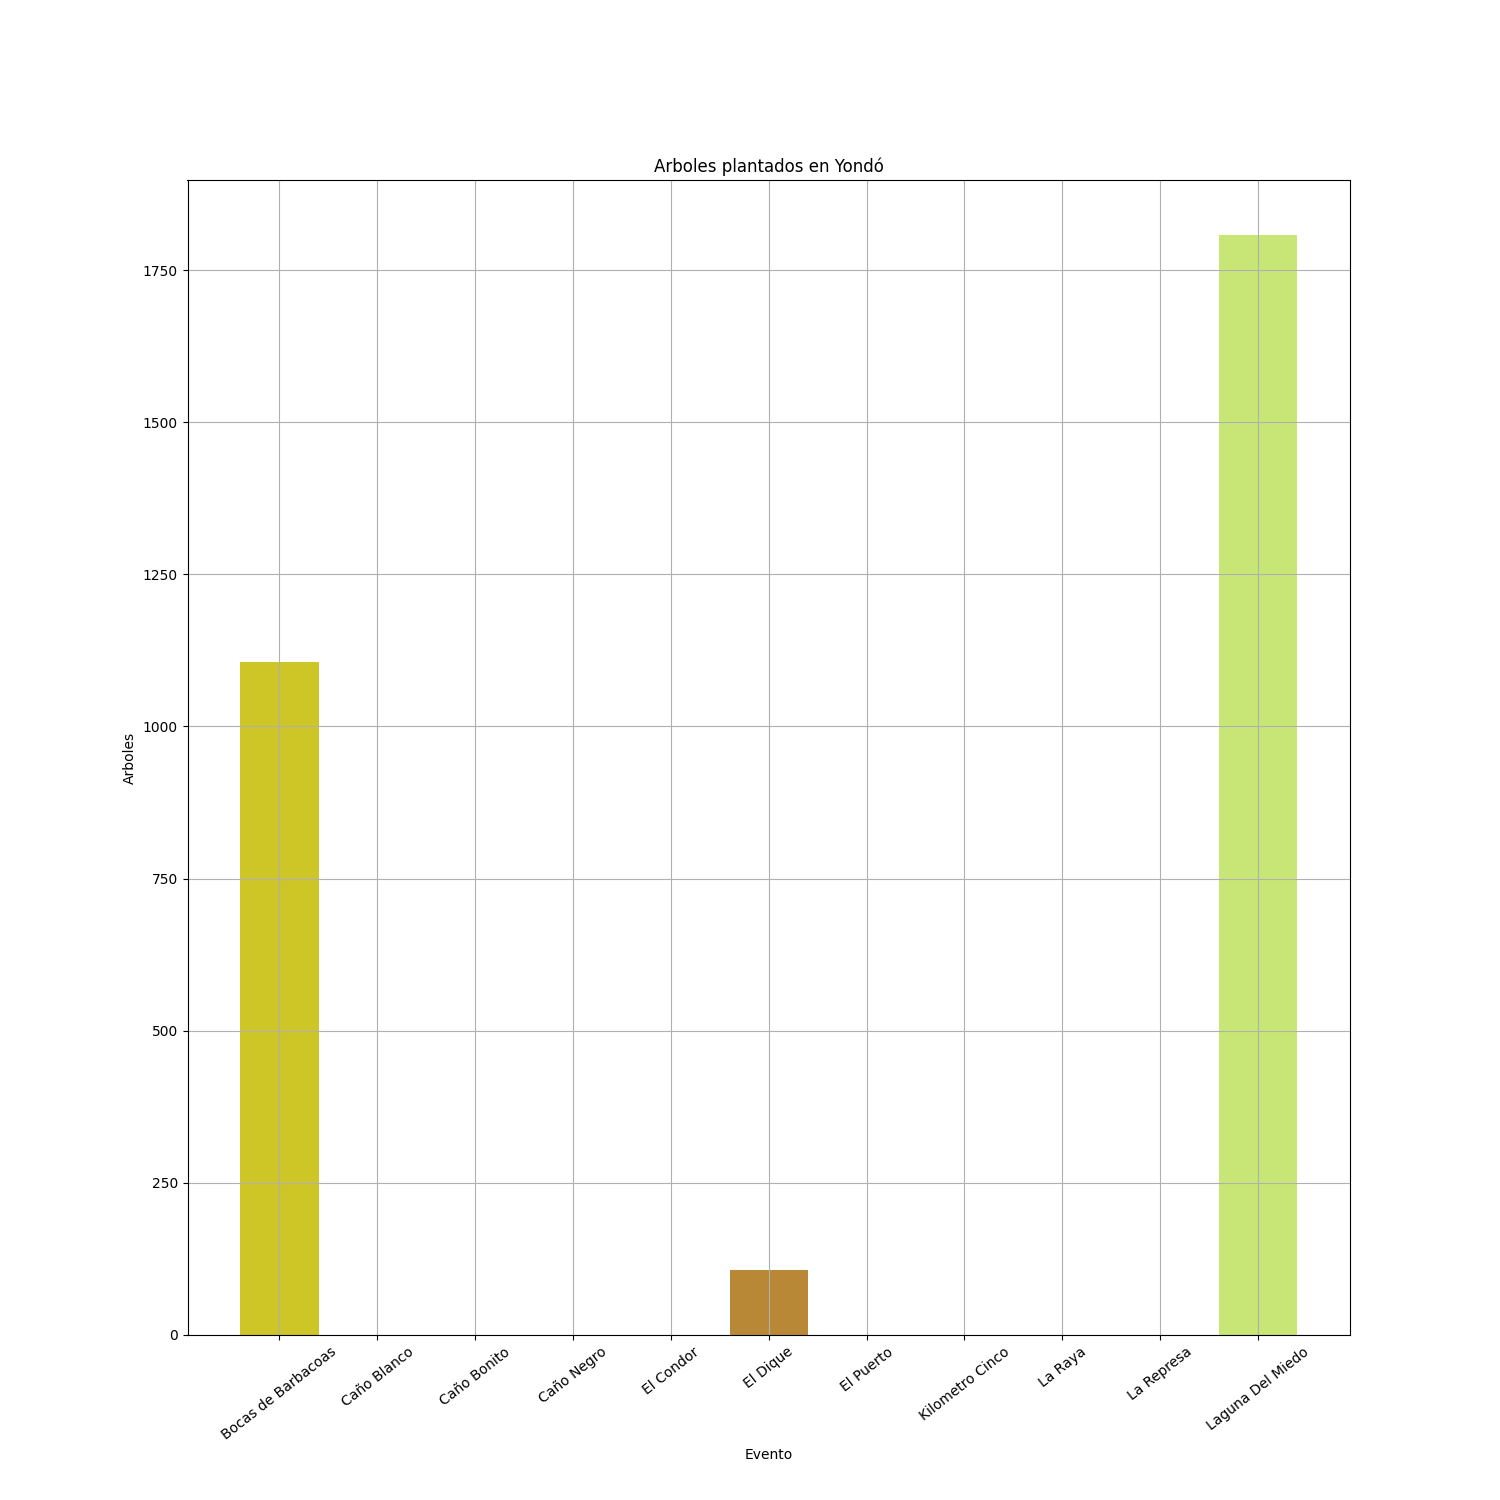
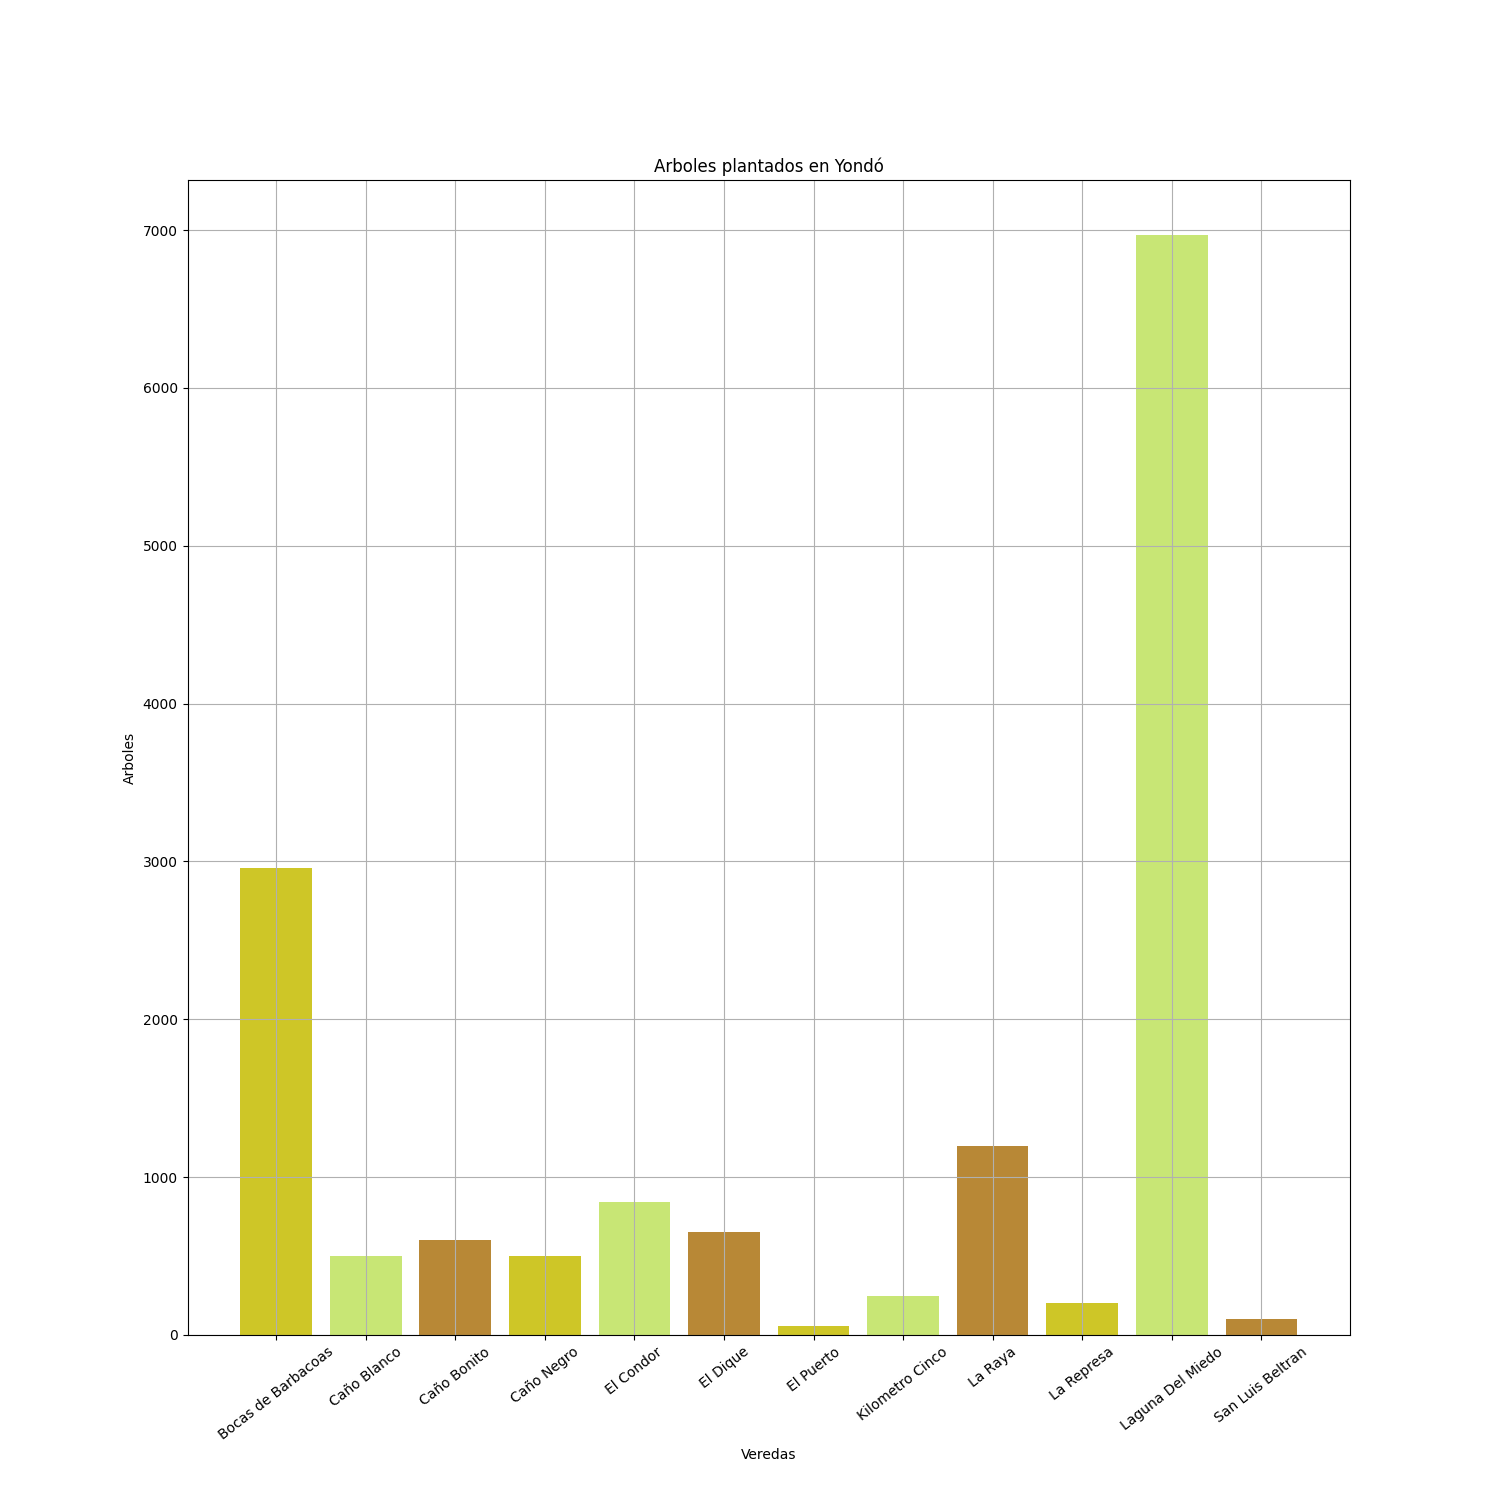
nt4 Se actualiza index con lo mínimo

diff --git a/index.html b/index.html
@@ -7,16 +7,16 @@
   <!-- Bootstrap -->
   <link href="https://cdn.jsdelivr.net/npm/bootstrap@5.3.2/dist/css/bootstrap.min.css" rel="stylesheet"
     integrity="sha384-T3c6CoIi6uLrA9TneNEoa7RxnatzjcDSCmG1MXxSR1GAsXEV/Dwwykc2MPK8M2HN" crossorigin="anonymous" />
-  <title>Nombre para la APP</title>
+  <title>Arbolar...</title>
   <!-- Bootstrap Icons -->
   <link rel="stylesheet" href="https://cdn.jsdelivr.net/npm/bootstrap-icons@1.11.3/font/bootstrap-icons.min.css" />
   <!-- Animate css -->
   <link rel="stylesheet" href="https://cdnjs.cloudflare.com/ajax/libs/animate.css/4.1.1/animate.min.css" />
-  <link rel="stylesheet" href="./assets/styles/estilosHome.css">
+  <link rel="stylesheet" href="./assets/styles/estilosHome.css" />
   <!-- Google Fonts -->
-  <link rel="preconnect" href="https://fonts.googleapis.com">
-  <link rel="preconnect" href="https://fonts.gstatic.com" crossorigin>
-  <link href="https://fonts.googleapis.com/css2?family=Castoro&display=swap" rel="stylesheet">
+  <link rel="preconnect" href="https://fonts.googleapis.com" />
+  <link rel="preconnect" href="https://fonts.gstatic.com" crossorigin />
+  <link href="https://fonts.googleapis.com/css2?family=Castoro&display=swap" rel="stylesheet" />
 </head>
 
 <body>
@@ -43,14 +43,23 @@
   <main>
     <section class="banner text-dark">
       <h3>Arbolar</h3>
-      <button class="btn bg-dark-subtle btn-m shadow-lg">Más información <i class="bi bi-arrow-up-right-square small"></i></button>
+      <button class="btn bg-dark-subtle btn-m shadow-lg">
+        Más información <i class="bi bi-arrow-up-right-square small"></i>
+      </button>
     </section>
     <section>
       <div class="container my-4">
         <div class="row text-center">
           <div class="col-12">
             <h3 class="text-dark-emphasis fuente">Bienvenido...</h3>
-            <p>Lorem ipsum dolor sit amet consectetur adipisicing elit. Aliquid atque ratione enim similique mollitia nostrum sed animi nesciunt! Recusandae illo, quia officiis cumque hic autem doloremque vitae, dignissimos eos ex animi. Quod ex, distinctio ullam modi animi deleniti odio voluptas veritatis soluta sed accusantium eius nemo assumenda libero sapiente rerum?</p>
+            <p>
+              Lorem ipsum dolor sit amet consectetur adipisicing elit. Aliquid
+              atque ratione enim similique mollitia nostrum sed animi
+              nesciunt! Recusandae illo, quia officiis cumque hic autem
+              doloremque vitae, dignissimos eos ex animi. Quod ex, distinctio
+              ullam modi animi deleniti odio voluptas veritatis soluta sed
+              accusantium eius nemo assumenda libero sapiente rerum?
+            </p>
           </div>
         </div>
       </div>
@@ -58,34 +67,121 @@
     <section>
       <div class="container text-center my-5">
         <div class="row">
-          <div class="col-7">
+          <div class="col-sm-6">
             <h4>RESULTADOS...</h4>
             <ul class="nav nav-tabs" id="myTab" role="tablist">
               <li class="nav-item" role="presentation">
-                <button class="nav-link active" id="home-tab" data-bs-toggle="tab" data-bs-target="#home-tab-pane" type="button" role="tab" aria-controls="home-tab-pane" aria-selected="true">Home</button>
+                <button class="nav-link active" id="bagre-tab" data-bs-toggle="tab" data-bs-target="#bagre-tab-pane"
+                  type="button" role="tab" aria-controls="bagre-tab-pane" aria-selected="true">
+                  El Bagre
+                </button>
               </li>
               <li class="nav-item" role="presentation">
-                <button class="nav-link" id="profile-tab" data-bs-toggle="tab" data-bs-target="#profile-tab-pane" type="button" role="tab" aria-controls="profile-tab-pane" aria-selected="false">Profile</button>
+                <button class="nav-link" id="medellin-tab" data-bs-toggle="tab" data-bs-target="#medellin-tab-pane"
+                  type="button" role="tab" aria-controls="medellin-tab-pane" aria-selected="false">
+                  Medellín
+                </button>
               </li>
               <li class="nav-item" role="presentation">
-                <button class="nav-link" id="contact-tab" data-bs-toggle="tab" data-bs-target="#contact-tab-pane" type="button" role="tab" aria-controls="contact-tab-pane" aria-selected="false">Contact</button>
+                <button class="nav-link" id="santafe-tab" data-bs-toggle="tab" data-bs-target="#santafe-tab-pane"
+                  type="button" role="tab" aria-controls="santafe-tab-pane" aria-selected="false">
+                  Santa Fe de Antioquia
+                </button>
               </li>
               <li class="nav-item" role="presentation">
-                <button class="nav-link" id="disabled-tab" data-bs-toggle="tab" data-bs-target="#disabled-tab-pane" type="button" role="tab" aria-controls="disabled-tab-pane" aria-selected="false" disabled>Disabled</button>
+                <button class="nav-link" id="santarosa-tab" data-bs-toggle="tab" data-bs-target="#santarosa-tab-pane"
+                  type="button" role="tab" aria-controls="santarosa-tab-pane" aria-selected="false">
+                  Santa Rosa de Osos
+                </button>
+              </li>
+              <li class="nav-item" role="presentation">
+                <button class="nav-link" id="yondo-tab" data-bs-toggle="tab" data-bs-target="#yondo-tab-pane"
+                  type="button" role="tab" aria-controls="yondo-tab-pane" aria-selected="false">
+                  Yondó
+                </button>
               </li>
             </ul>
             <div class="tab-content" id="myTabContent">
-              <div class="tab-pane fade show active" id="home-tab-pane" role="tabpanel" aria-labelledby="home-tab" tabindex="0">...</div>
-              <div class="tab-pane fade" id="profile-tab-pane" role="tabpanel" aria-labelledby="profile-tab" tabindex="0">...</div>
-              <div class="tab-pane fade" id="contact-tab-pane" role="tabpanel" aria-labelledby="contact-tab" tabindex="0">...</div>
-              <div class="tab-pane fade" id="disabled-tab-pane" role="tabpanel" aria-labelledby="disabled-tab" tabindex="0">...</div>
+              <div class="tab-pane fade show active" id="bagre-tab-pane" role="tabpanel" aria-labelledby="bagre-tab"
+                tabindex="0">
+                <iframe src="./assets/tables/filtroElBagre.html" frameborder="0" class="w-100"></iframe>
+              </div>
+              <div class="tab-pane fade" id="medellin-tab-pane" role="tabpanel" aria-labelledby="medellin-tab"
+                tabindex="0">
+                <iframe src="./assets/tables/filtroMedellin200.html" frameborder="0" class="w-100"></iframe>
+              </div>
+              <div class="tab-pane fade" id="santafe-tab-pane" role="tabpanel" aria-labelledby="santafe-tab"
+                tabindex="0">
+                <iframe src="./assets/tables/filtroSantaFe.html" frameborder="0" class="w-100"></iframe>
+              </div>
+              <div class="tab-pane fade" id="santarosa-tab-pane" role="tabpanel" aria-labelledby="santarosa-tab"
+                tabindex="0">
+                <iframe src="./assets/tables/filtroSantaRosas.html" frameborder="0" class="w-100"></iframe>
+              </div>
+              <div class="tab-pane fade" id="yondo-tab-pane" role="tabpanel" aria-labelledby="yondo-tab" tabindex="0">
+                <iframe src="./assets/tables/filtroSantaRosas.html" frameborder="0" class="w-100"></iframe>
+              </div>
             </div>
           </div>
-          <div class="col-5">
-            <h4>GRÁFICAS...</h4>
-
-          </div>
-        </div>
+            <div class="col-sm-6">
+              <h4>GRÁFICAS...</h4>
+              <ul class="nav nav-tabs" id="myTab" role="tablist">
+                <li class="nav-item" role="presentation">
+                  <button class="nav-link active" id="bagre-graph" data-bs-toggle="tab"
+                    data-bs-target="#bagre-graph-pane" type="button" role="tab" aria-controls="bagre-graph-pane"
+                    aria-selected="true">
+                    El Bagre
+                  </button>
+                </li>
+                <li class="nav-item" role="presentation">
+                  <button class="nav-link" id="medellin-graph" data-bs-toggle="tab"
+                    data-bs-target="#medellin-graph-pane" type="button" role="tab" aria-controls="medellin-graph-pane"
+                    aria-selected="false">
+                    Medellín
+                  </button>
+                </li>
+                <li class="nav-item" role="presentation">
+                  <button class="nav-link" id="santafe-graph" data-bs-toggle="tab" data-bs-target="#santafe-graph-pane"
+                    type="button" role="tab" aria-controls="santafe-graph-pane" aria-selected="false">
+                    Santa Fe de Antioquia
+                  </button>
+                </li>
+                <li class="nav-item" role="presentation">
+                  <button class="nav-link" id="santarosa-graph" data-bs-toggle="tab"
+                    data-bs-target="#santarosa-graph-pane" type="button" role="tab" aria-controls="santarosa-graph-pane"
+                    aria-selected="false">
+                    Santa Rosa de Osos
+                  </button>
+                </li>
+                <li class="nav-item" role="presentation">
+                  <button class="nav-link" id="yondo-graph" data-bs-toggle="tab" data-bs-target="#yondo-graph-pane"
+                    type="button" role="tab" aria-controls="yondo-graph-pane" aria-selected="false">
+                    Yondó
+                  </button>
+                </li>
+              </ul>
+              <div class="tab-content" id="myTabContent">
+                <div class="tab-pane fade show active" id="bagre-graph-pane" role="tabpanel"
+                  aria-labelledby="bagre-graph" tabindex="0">
+                  <img src="./assets/graphs/filtroElBagre.png" frameborder="0" class="img-fluid"></img>
+                </div>
+                <div class="tab-pane fade" id="medellin-graph-pane" role="tabpanel" aria-labelledby="medellin-graph"
+                  tabindex="0">
+                  <img src="./assets/graphs/filtroMedellin200.png" frameborder="0" class="img-fluid"></img>
+                </div>
+                <div class="tab-pane fade" id="santafe-graph-pane" role="tabpanel" aria-labelledby="santafe-graph"
+                  tabindex="0">
+                  <img src="./assets/graphs/filtroSantaFe.png" frameborder="0" class="img-fluid"></img>
+                </div>
+                <div class="tab-pane fade" id="santarosa-graph-pane" role="tabpanel" aria-labelledby="santarosa-graph"
+                  tabindex="0">
+                  <img src="./assets/graphs/filtroSantaRosas.png" frameborder="0" class="img-fluid"></img>
+                </div>
+                <div class="tab-pane fade" id="yondo-graph-pane" role="tabpanel" aria-labelledby="yondo-graph"
+                  tabindex="0">
+                  <img src="./assets/graphs/filtroYondo.png" frameborder="0" class="img-fluid"></img>
+                </div>
+              </div>
       </div>
     </section>
   </main>

diff --git a/assets/tables/filtroElBagre.html b/assets/tables/filtroElBagre.html
@@ -9,7 +9,7 @@
 </head>
 <body>
     
-<table class="table table-striped">
+<table class="table table-striped table-warning">
 <thead>
 <tr>
 <th></th>

diff --git a/assets/tables/filtroMedellin200.html b/assets/tables/filtroMedellin200.html
@@ -9,7 +9,7 @@
 </head>
 <body>
     
-<table class="table table-striped">
+<table class="table table-striped table-warning">
 <thead>
 <tr>
 <th></th>

diff --git a/assets/tables/filtroSantaFe.html b/assets/tables/filtroSantaFe.html
@@ -9,7 +9,7 @@
 </head>
 <body>
     
-<table class="table table-striped">
+<table class="table table-striped table-warning">
 <thead>
 <tr>
 <th></th>

diff --git a/assets/tables/filtroSantaRosas.html b/assets/tables/filtroSantaRosas.html
@@ -9,7 +9,7 @@
 </head>
 <body>
     
-<table class="table table-striped">
+<table class="table table-striped table-warning">
 <thead>
 <tr>
 <th></th>

diff --git a/assets/tables/filtroYondo.html b/assets/tables/filtroYondo.html
@@ -9,7 +9,7 @@
 </head>
 <body>
     
-<table class="table table-striped">
+<table class="table table-striped table-warning">
 <thead>
 <tr>
 <th></th>

diff --git a/assets/styles/estilosHome.css b/assets/styles/estilosHome.css
@@ -34,3 +34,7 @@ nav{
 .fuente{
     font-family: 'Castoro', serif;
 }
+
+iframe{
+    height: 300px;
+}

diff --git a/analysis/analisisSiembras.py b/analysis/analisisSiembras.py
@@ -40,7 +40,7 @@ def analizarSiembra():
     #generarGrafica(filtroSantaRosas,'filtroSantaRosas')
 
     #Filtro Yondó
-    filtroYondo = tabla.query("(Ciudad=='Yondó')")
-    print(filtroYondo)
-    crearTabla(filtroYondo,'filtroYondo')
-    generarGrafica(filtroYondo,'filtroYondo')
+    #filtroYondo = tabla.query("(Ciudad=='Yondó')")
+    #print(filtroYondo)
+    #crearTabla(filtroYondo,'filtroYondo')
+    #generarGrafica(filtroYondo,'filtroYondo')

diff --git a/analysis/helpers/creacionGraficas.py b/analysis/helpers/creacionGraficas.py
@@ -121,7 +121,7 @@ def generarGrafica(dataFrame,nombreGrafica):
 
     #Filtro Yondó
     '''
-    plantacionYondo = dataFrame.groupby('Vereda')['Arboles'].mean()
+    plantacionYondo = dataFrame.groupby('Vereda')['Arboles'].sum()
     ##print(preciosPromedioPais)
     #0. Generando lista de colores.
     colores=['#CEC627','#C8E675','#B88836']
